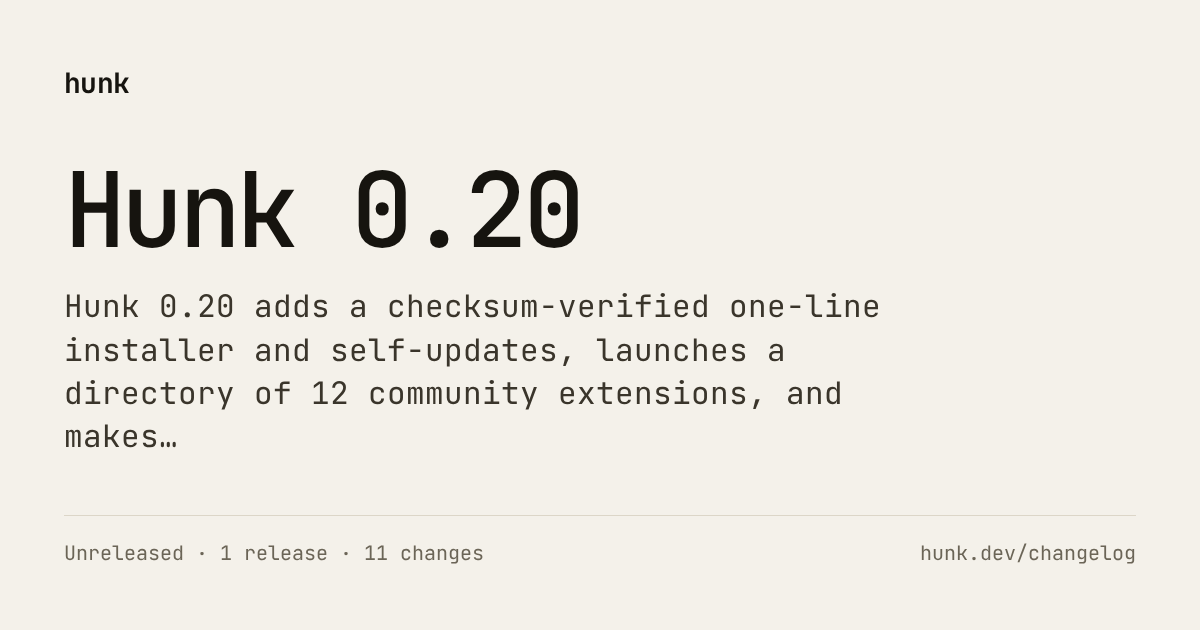
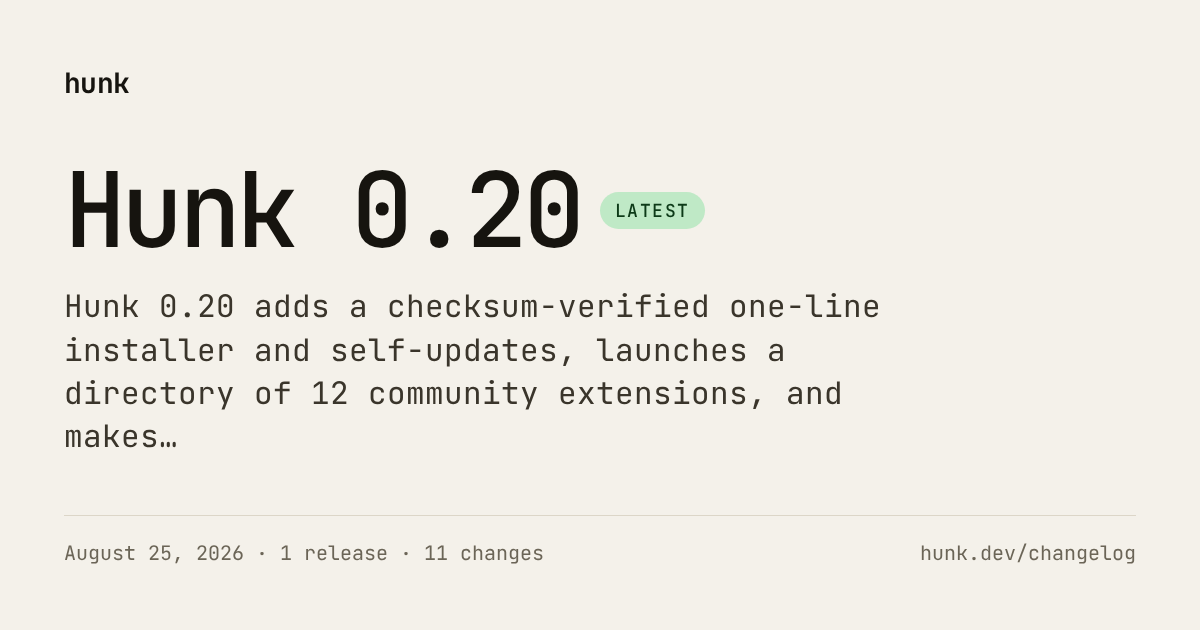
chore(release): publish 0.20.0 changelog

Changed region(s): [[0.0617, 0.8444, 0.4625, 0.9048], [0.4933, 0.3016, 0.5858, 0.3619]]

diff --git a/website/src/content/docs/changelog/0.20.md b/website/src/content/docs/changelog/0.20.md
@@ -11,7 +11,7 @@ head:
   - tag: meta
     attrs:
       property: og:image:alt
-      content: "Hunk 0.20 release notes — Unreleased · 1 release · 11 changes"
+      content: "Hunk 0.20 release notes — August 25, 2026 · 1 release · 11 changes"
   - tag: meta
     attrs:
       name: twitter:image
@@ -20,9 +20,16 @@ head:
 
 <!-- GENERATED by `bun run generate:changelog`. Edit CHANGELOG.md or website/releases/notes.json instead. -->
 
-Unreleased · 1 release
+August 25, 2026 · 1 release
 
 Hunk 0.20 adds a checksum-verified one-line installer and self-updates, launches a directory of 12 community extensions, and makes line-level reviewing faster and more precise.
+
+```sh
+npm i -g hunkdiff@0.20.0
+brew update && brew upgrade hunk
+```
+
+This is the current release. See [all install options](/docs/start/install/).
 
 ## Related documentation
 
@@ -36,7 +43,7 @@ Hunk 0.20 adds a checksum-verified one-line installer and self-updates, launches
 
 ### 0.20.0
 
-Unreleased
+August 25, 2026
 
 #### Minor Changes
 

diff --git a/website/src/content/docs/changelog/index.md b/website/src/content/docs/changelog/index.md
@@ -11,7 +11,7 @@ head:
   - tag: meta
     attrs:
       property: og:image:alt
-      content: "Hunk changelog — 19 release series · March 2026 – August 2026"
+      content: "Hunk changelog — 20 release series · March 2026 – August 2026"
   - tag: meta
     attrs:
       name: twitter:image
@@ -24,13 +24,13 @@ head:
 
 ## [Hunk 0.20](/changelog/0.20/)
 
-Unreleased · 1 release · 11 changes
+Latest · August 25, 2026 · 1 release · 11 changes
 
 Hunk 0.20 adds a checksum-verified one-line installer and self-updates, launches a directory of 12 community extensions, and makes line-level reviewing faster and more precise.
 
 ## [Hunk 0.19](/changelog/0.19/)
 
-Latest · August 16, 2026 – August 24, 2026 · 2 releases · 39 changes
+August 16, 2026 – August 24, 2026 · 2 releases · 39 changes
 
 Hunk 0.19.0 expands the extension platform, makes live agent guidance more precise, and keeps large reviews responsive.
 

diff --git a/website/src/content/docs/changelog/0.19.md b/website/src/content/docs/changelog/0.19.md
@@ -26,10 +26,9 @@ Hunk 0.19.0 expands the extension platform, makes live agent guidance more preci
 
 ```sh
 npm i -g hunkdiff@0.19.1
-brew update && brew upgrade hunk
 ```
 
-This is the current release. See [all install options](/docs/start/install/).
+Hunk 0.19 is no longer the current release. See [the latest release](/changelog/) or [all install options](/docs/start/install/).
 
 ## Highlights
 
